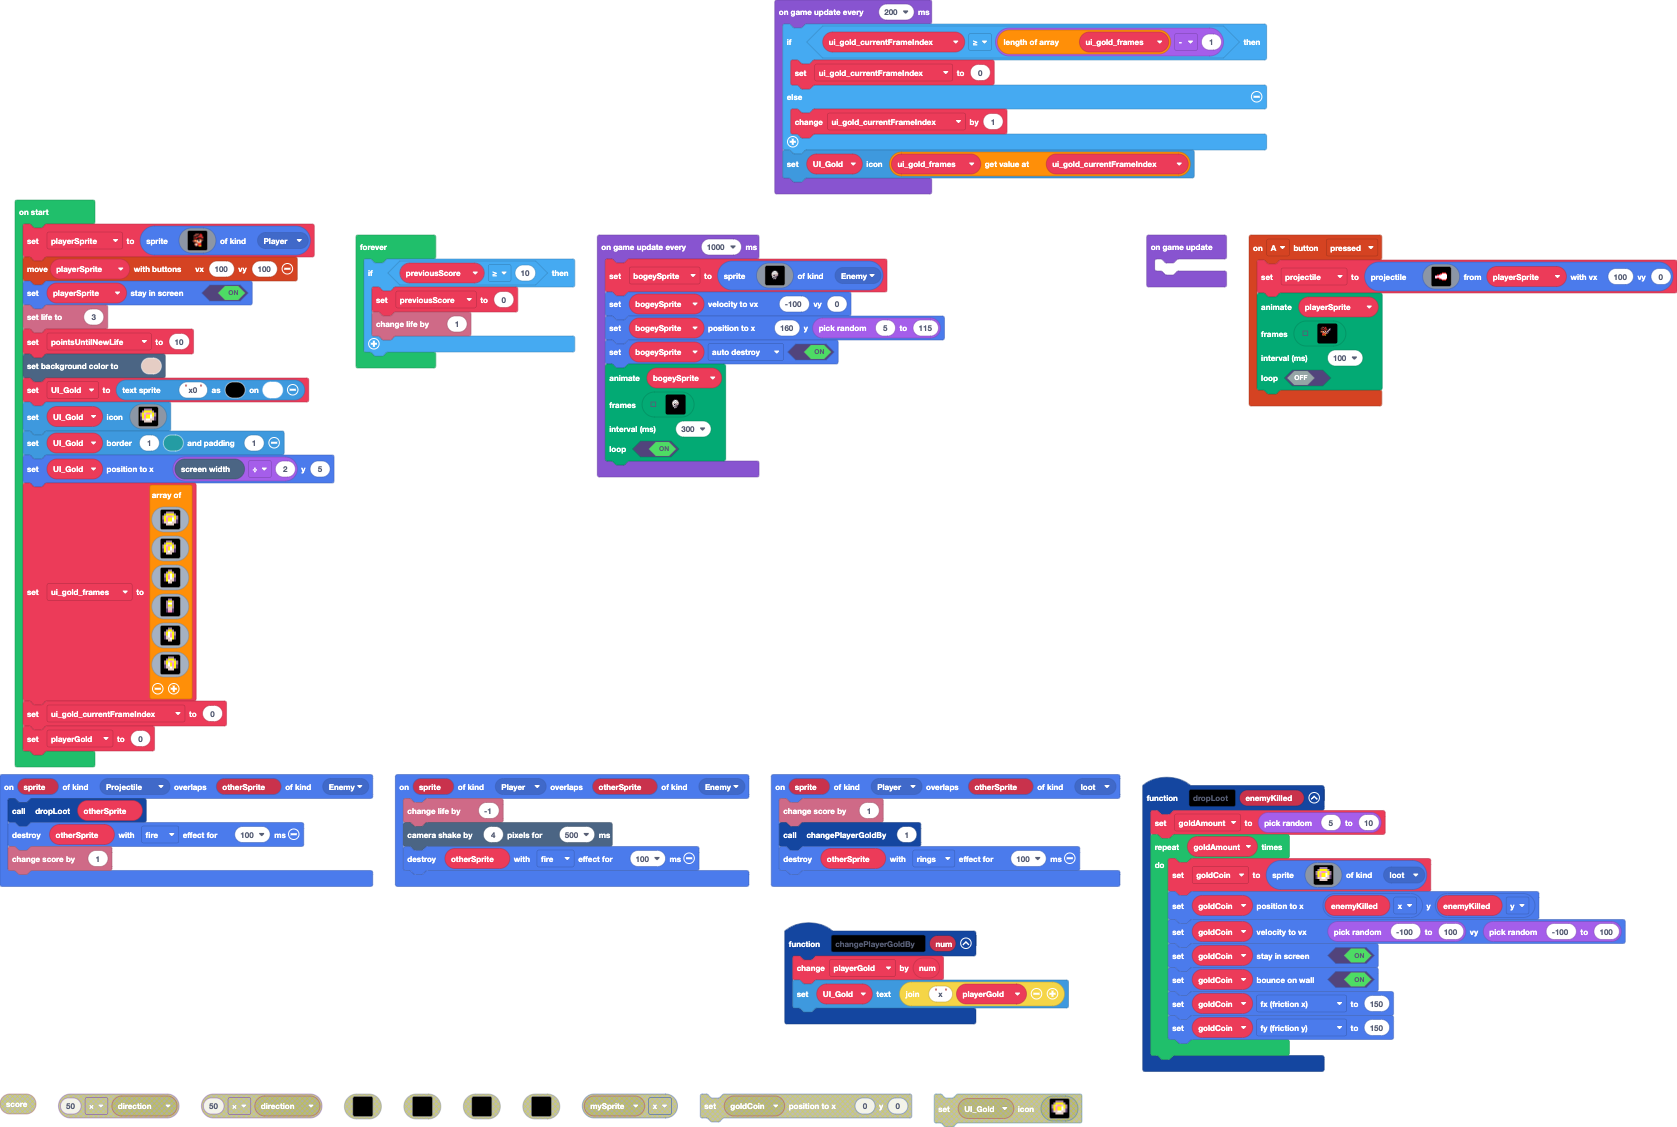
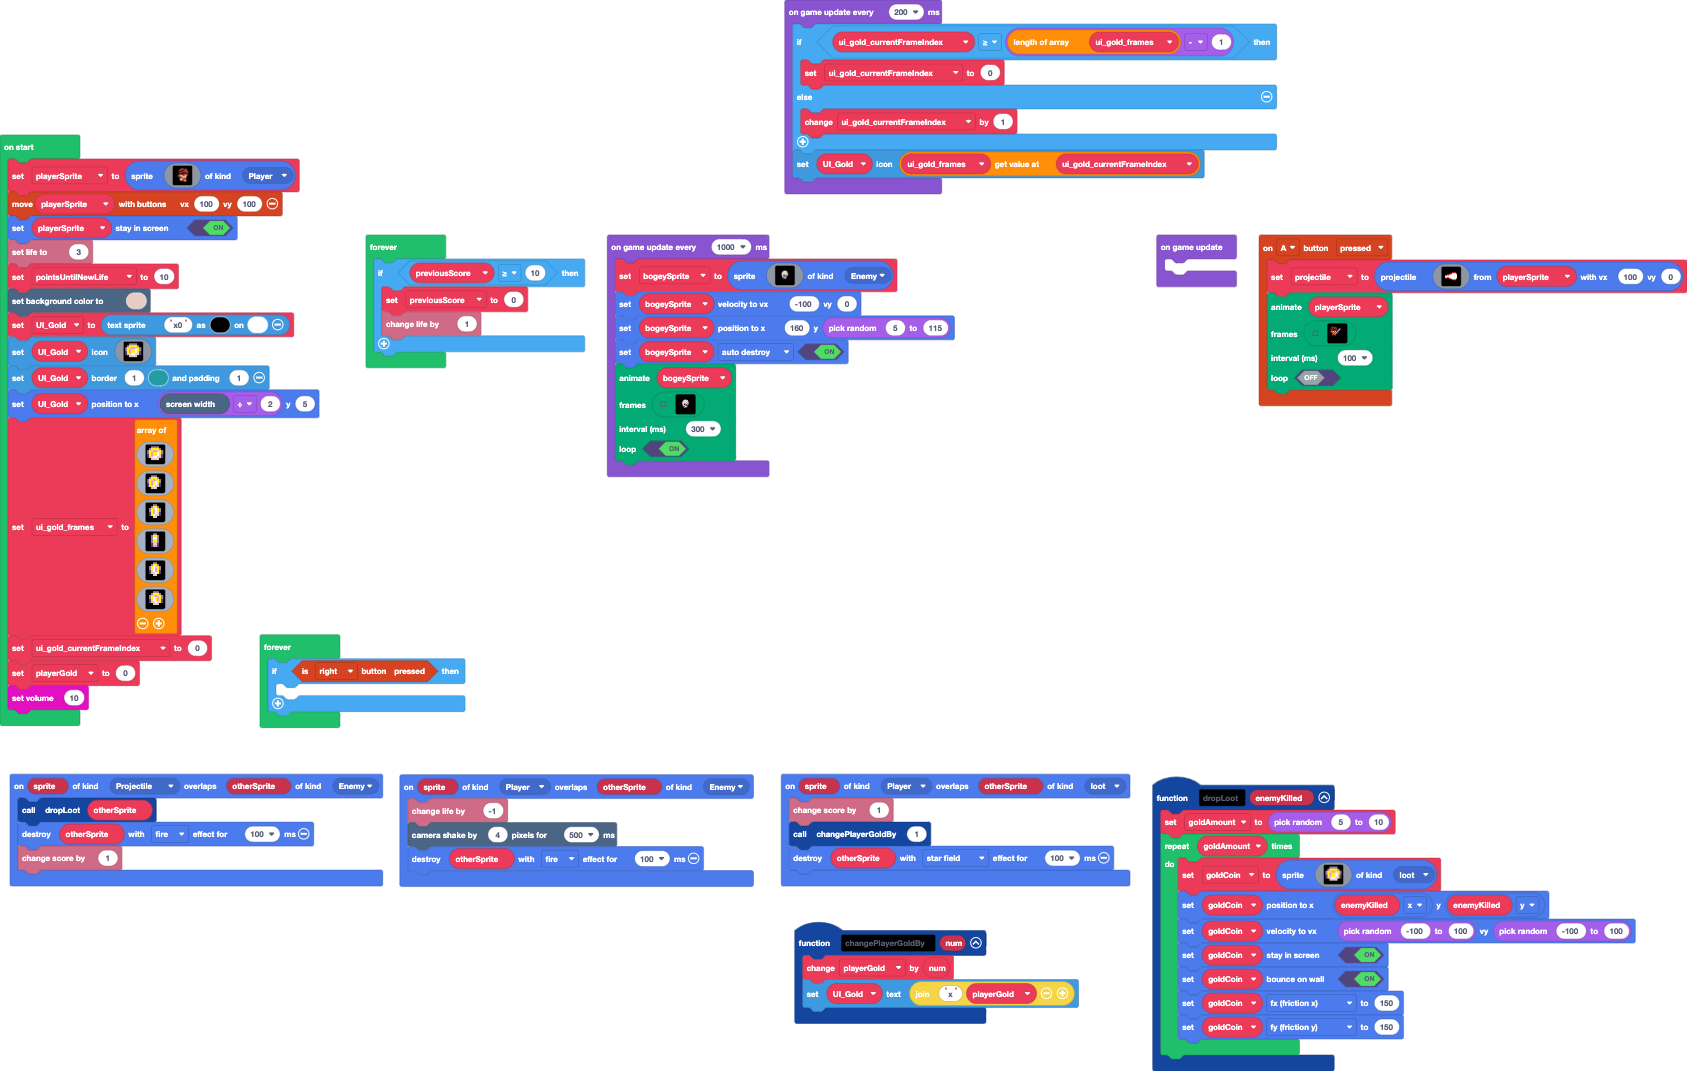
Update pxt.json, main.blocks, main.ts

Changed region(s): [[0.0, 0.1232, 0.9922, 1.0], [0.4341, 0.0, 1.0, 0.4006]]

diff --git a/main.ts b/main.ts
@@ -151,7 +151,7 @@ function dropLoot (enemyKilled: Sprite) {
 sprites.onOverlap(SpriteKind.Player, SpriteKind.loot, function (sprite, otherSprite) {
     info.changeScoreBy(1)
     changePlayerGoldBy(1)
-    otherSprite.destroy(effects.rings, 100)
+    otherSprite.destroy(effects.starField, 100)
 })
 function changePlayerGoldBy (num: number) {
     playerGold += num
@@ -258,6 +258,7 @@ img`
 ]
 let ui_gold_currentFrameIndex = 0
 playerGold = 0
+music.setVolume(10)
 game.onUpdate(function () {
 	
 })
@@ -352,6 +353,11 @@ forever(function () {
     if (previousScore >= 10) {
         previousScore = 0
         info.changeLifeBy(1)
+    }
+})
+forever(function () {
+    if (controller.right.isPressed()) {
+    	
     }
 })
 game.onUpdateInterval(200, function () {
